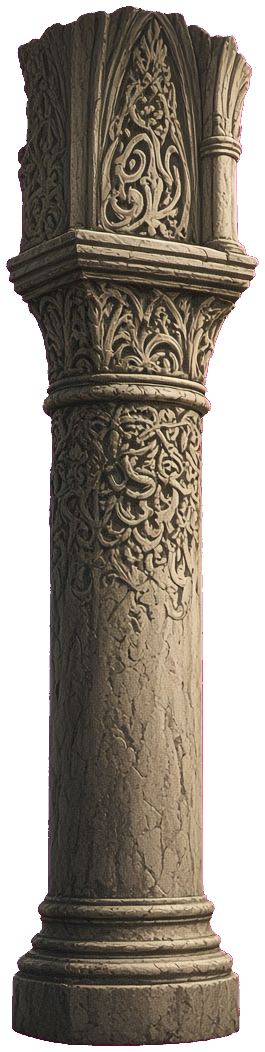
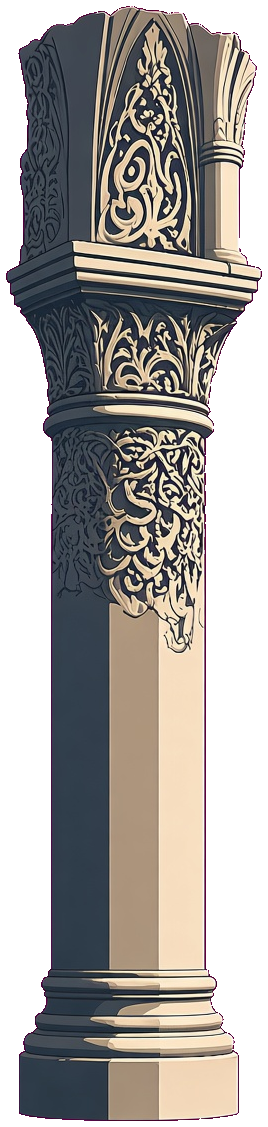
Add painted biome plates, weapon sprites, firepit, and world props.

diff --git a/docs/art-direction-brief.md b/docs/art-direction-brief.md
@@ -1,0 +1,48 @@
+# Art direction brief
+
+## Game frame
+
+- Player fantasy: a bear-helmed knight walking a moonlit gothic north toward the Bear King.
+- Core verbs: run, jump, dash, light/heavy attack, rest at a bonfire.
+- Engine and renderer: vanilla Canvas 2D in the browser / Telegram Mini App.
+- Target platforms: desktop browser and phone Mini App.
+- Camera/view/facing: side-scrolling, character faces ±X, native view ~960×540, tiles 32px.
+- Native viewport and common display scale: 960×540 logical, scaled to CSS size with DPR cap 2.
+- Typical asset size on screen: knight ~32×52; decor trees 90–160px tall; parallax strips cover the viewport height.
+
+## Visual system
+
+- Shape language: slender gothic (needle spires, lancet arches, carved pillars) against organic dense canopy. Interactive props stay chunkier than the painted horizon.
+- Silhouette priorities: knight hood + bear muzzle, bonfire, portal arch, enemy hoods. Horizon castle may merge into mountains.
+- Value structure: three bands — near-black playfield, mid silver-blue moonlight rims, warm yellow only on windows and fire.
+- Palette roles and exact swatches:
+  - Night: `#070b14` `#10182a` `#1a2740`
+  - Moon: `#c8ead8`
+  - Canopy: `#0e1a16` `#1c3d34` `#7eb89a`
+  - Stone: `#cbb9a0` `#8a7a68`
+  - Window/fire: `#e0a45a` `#ffcf6b`
+  - Danger: `#d33f4a`
+- Materials: weathered pale stone with relief carvings; heavy folded cloth; dark needle foliage; cool metal with a moonlight rim.
+- Edge/line treatment: painterly lost edges on backgrounds; gameplay sprites keep a readable contact shadow. No pixel outline, no hard comic ink.
+- Lighting direction and contrast: key from upper-right moon (cool). Fill is deep navy. Practical warm lights are point sources only (windows, bonfire).
+- Detail density: carvings live on pillars and the horizon. Ground and platforms use a repeating weathered-stone grain; the knight still has to read on top of it.
+- Motion character: restrained; cloak sway, slow cloud/star drift, bonfire flicker. No elastic squash.
+- Explicit exclusions: pixel-art dither, blood-red conical wizard hoods as the default language, first-person framing, baked HUD chrome, text in paintings.
+
+## Technical contract
+
+- Asset dimensions/aspect: sky/far/mid 16:9 plates; props authored 3:4 then cropped to alpha bounds.
+- Alpha/background: props keyed from magenta; mid canopy uses luma-to-alpha; far fades the top band.
+- Grid/tile/frame size: collision stays 32×32. Fill, ground cap and floating slabs are repeating painted plates, not flat color.
+- Anchor/pivot/baseline: props bottom-center on the ground line.
+- Filtering/mipmaps/compression: bilinear / `imageSmoothingQuality = high` (painterly). PNG, no lossy.
+- Color space: sRGB.
+- Texture/poly/material budgets: six plates in `assets/art/moonwatch/`; biome identity is palette + which layers draw.
+- Naming and folders: `assets/art/moonwatch/{sky,far,mid,tree,pillar,arch,seed}.png`.
+
+## Visual target
+
+- Approved seed/reference paths: `assets/art/moonwatch/seed.png` (variant B, Лунный дозор); user stills of the moonlit balcony painting.
+- Required do/don't examples: do keep the moon large, cool, and greenish; do keep warm light as pinpoints. Don't flood the playfield with orange torch fill. Don't put unique landmarks on tile seams of mid/tree strips.
+- Native-scale gameplay capture: hub scene on Иссохший лес after art load.
+- Approval owner/date: user chose B on 2026-09-09.
